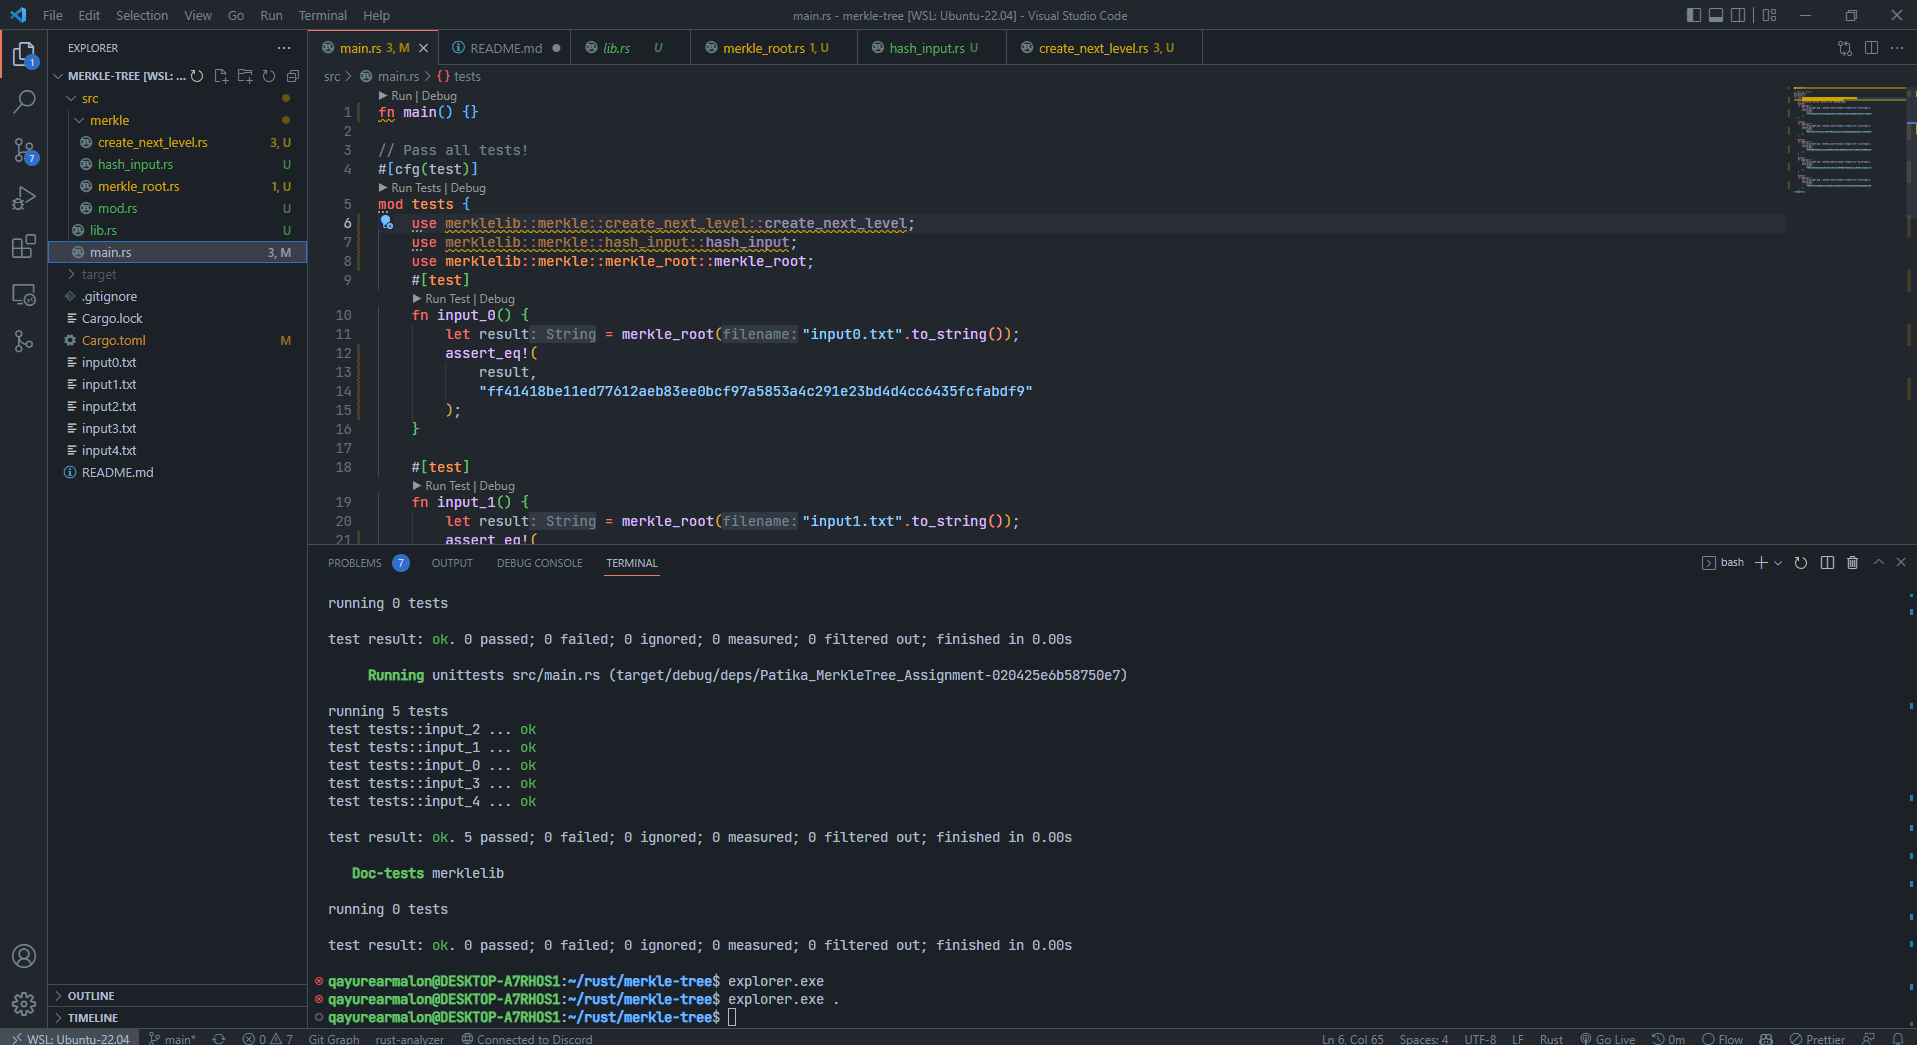
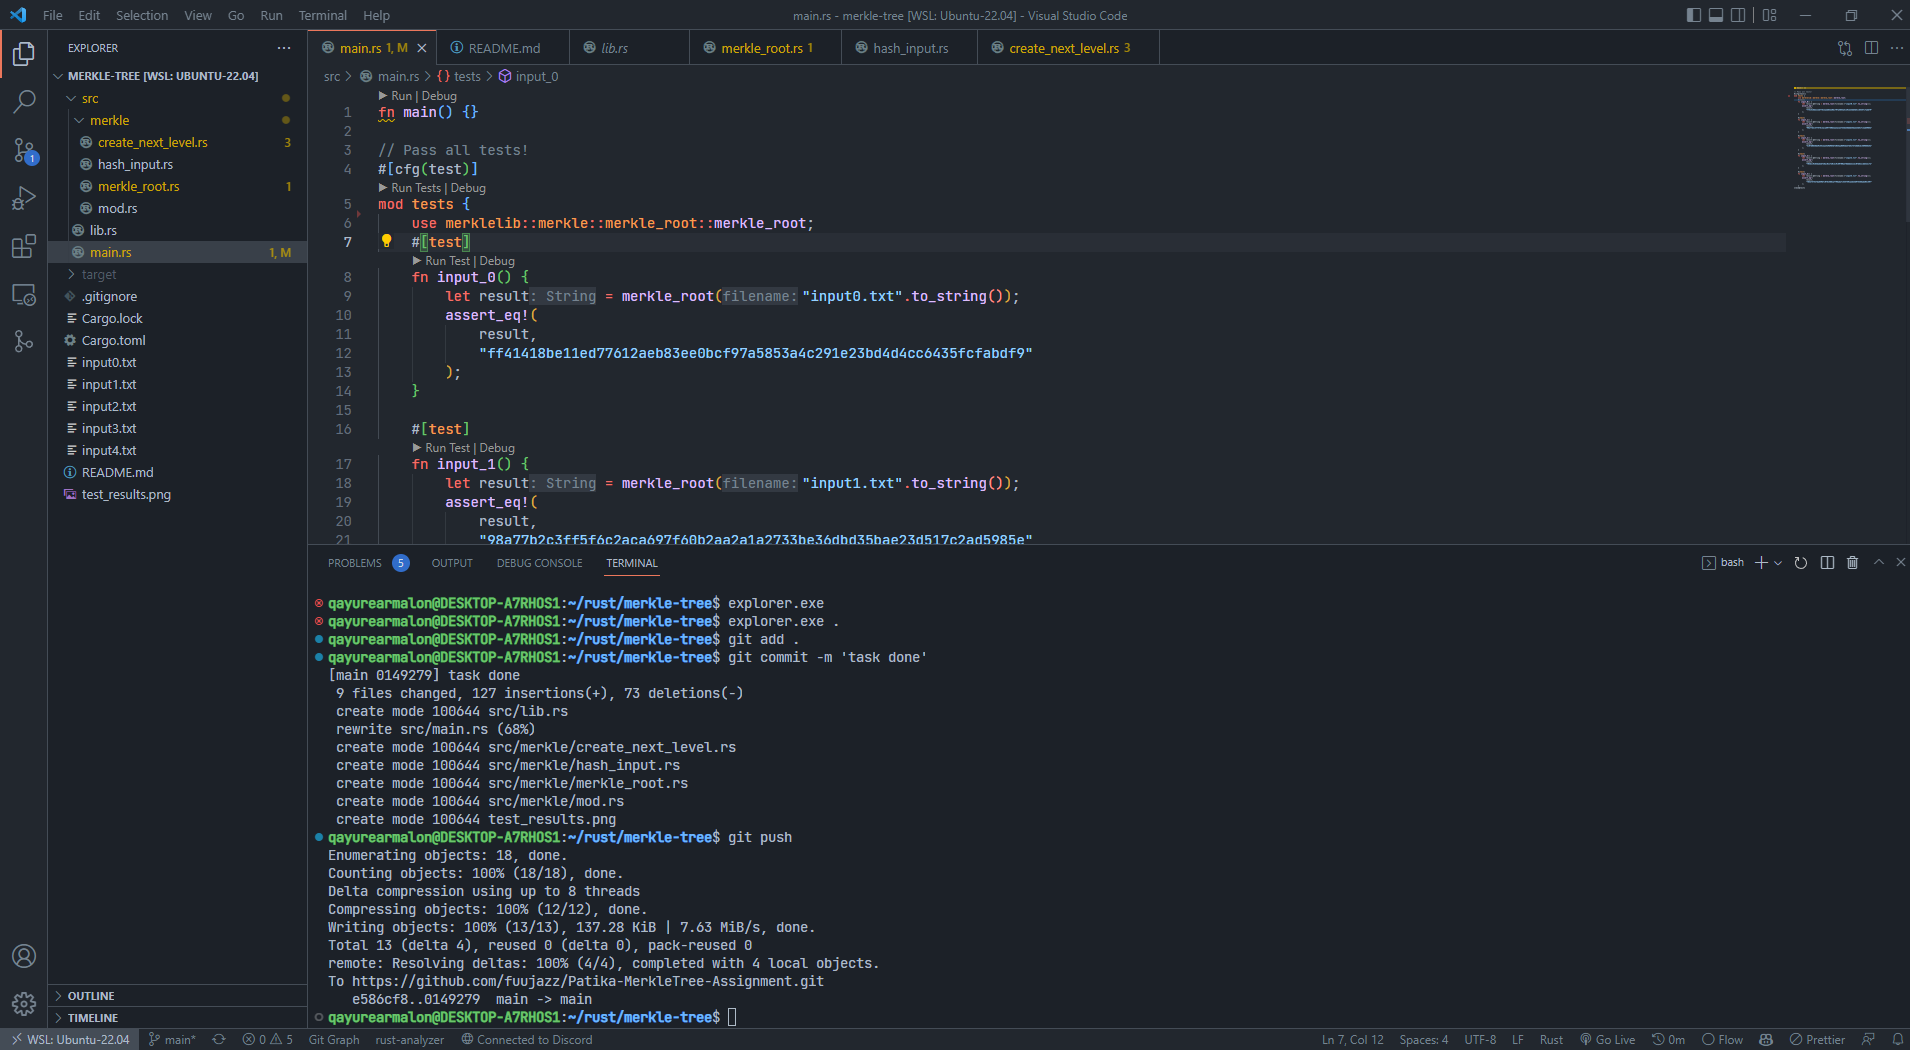
readme photo changed and unnecessary imports deleted

diff --git a/src/main.rs b/src/main.rs
@@ -3,8 +3,6 @@ fn main() {}
 // Pass all tests!
 #[cfg(test)]
 mod tests {
-    use merklelib::merkle::create_next_level::create_next_level;
-    use merklelib::merkle::hash_input::hash_input;
     use merklelib::merkle::merkle_root::merkle_root;
     #[test]
     fn input_0() {
